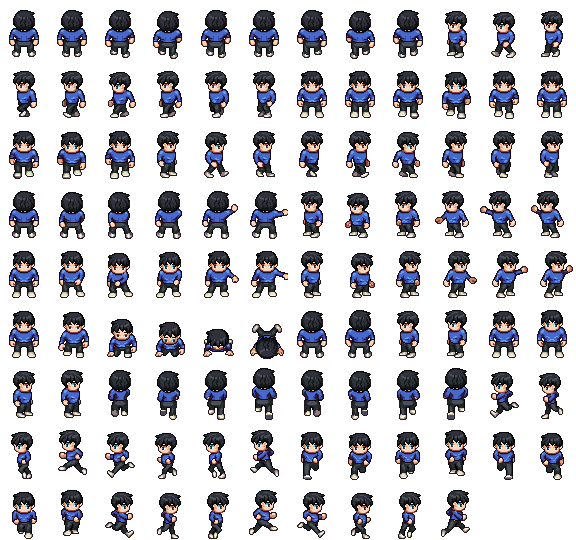
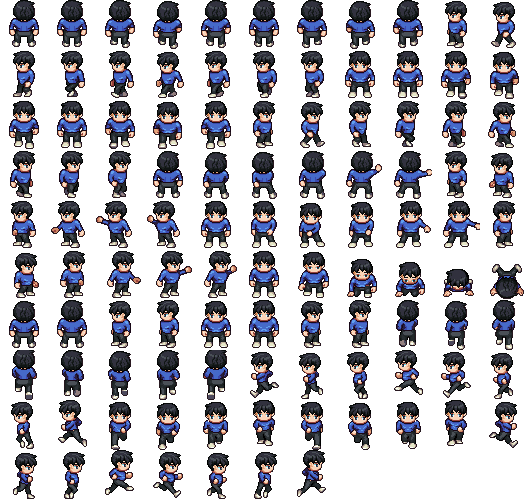
refactor: atualiza mapa base e ajusta tamanho do player

diff --git a/src/scenes/jogo.js b/src/scenes/jogo.js
@@ -11,7 +11,7 @@ export default class Jogo extends Phaser.Scene {
 
         this.load.spritesheet('player', 'public/assets/personagens/player.png', {
             frameWidth: 48,
-            frameHeight: 60
+            frameHeight: 50
         })
     }
 
@@ -30,7 +30,7 @@ export default class Jogo extends Phaser.Scene {
 
         mapa.createLayer('chao', tilesets, 0, 0)
         mapa.createLayer('parede', tilesets, 0, 0)
-        this.layerColisao = mapa.createLayer('paredecolisao', tilesets, 0, 0)
+        this.layerColisao = mapa.createLayer('colisao', tilesets, 0, 0)
         mapa.createLayer('teto', tilesets, 0, 0)
         mapa.createLayer('objetos', tilesets, 0, 0)
         
@@ -100,8 +100,8 @@ export default class Jogo extends Phaser.Scene {
 
         // debug colisão
         //this.layerColisao.renderDebug(this.add.graphics(), {
-        //    tileColor: null,
-        //    collidingTileColor: new Phaser.Display.Color(255, 0, 0, 100)
+        //tileColor: null,
+        //  collidingTileColor: new Phaser.Display.Color(255, 0, 0, 100)
         //})
 
         // debug posição do personagem
